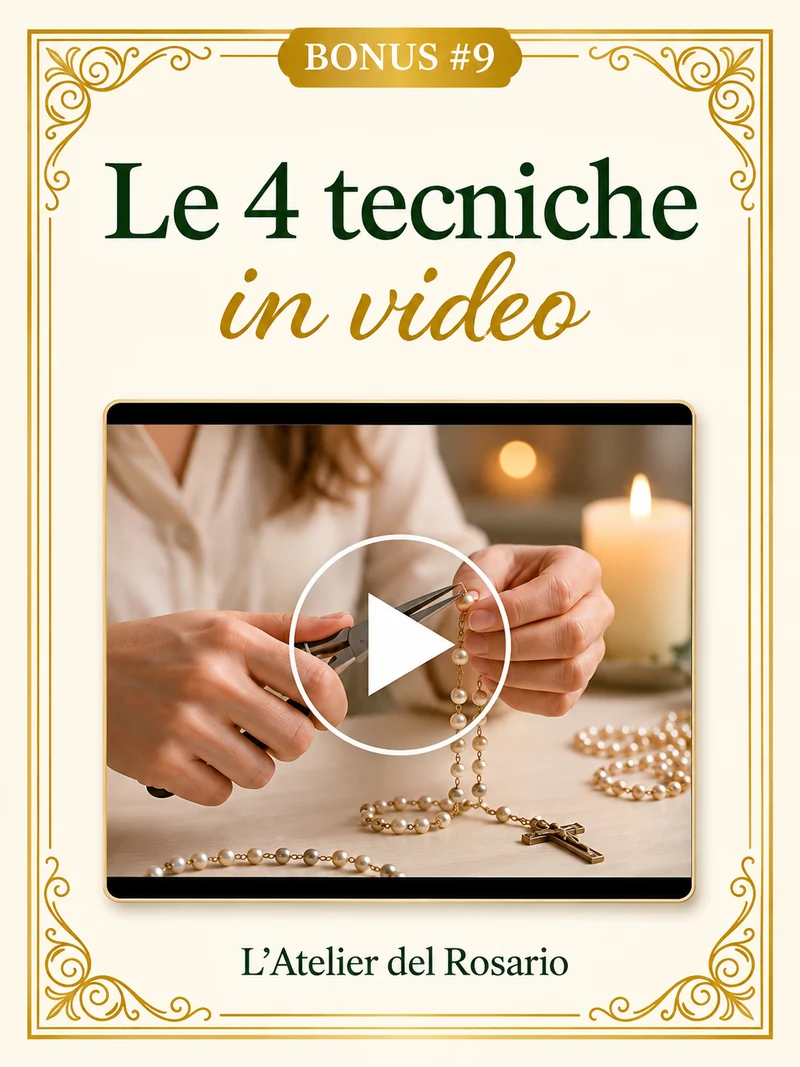
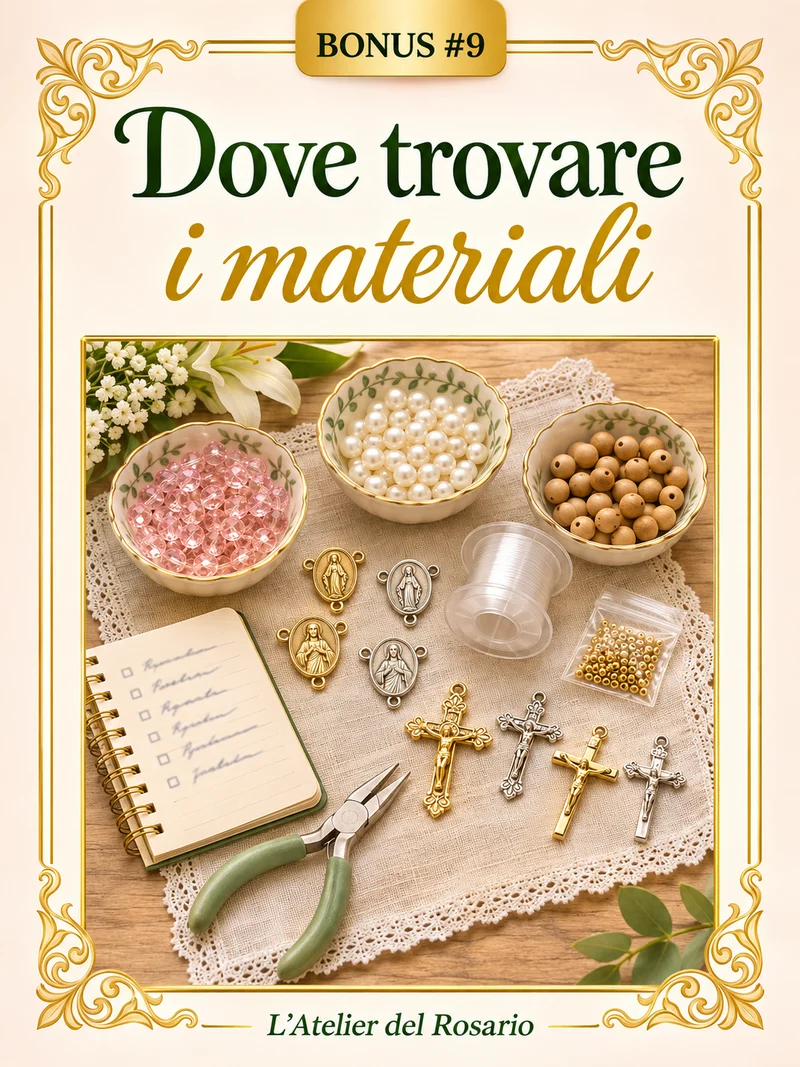
Bonus 9 vira Dove trovare i materiali

diff --git a/bonus.js b/bonus.js
@@ -13,7 +13,7 @@ var BONUS = (function () {
     { n: 6, tit: 'Catalogo per WhatsApp', sub: 'Crea il tuo catalogo da inviare' },
     { n: 7, tit: 'Piano di 7 giorni per vendere sui social', sub: 'Cosa pubblicare ogni giorno' },
     { n: 8, tit: 'Confezioni, kit ed etichette', sub: 'Etichette e biglietti da stampare' },
-    { n: 9, tit: 'Le 4 tecniche in video', sub: 'In arrivo', inArrivo: true },
+    { n: 9, tit: 'Dove trovare i materiali', sub: 'La lista della spesa e dove comprare' },
     { n: 10, tit: 'Foto che vendono', sub: 'Foto belle con il telefono' }
   ];
   function M() { return (window.BDATI && window.BDATI.modelli) || []; }
@@ -475,10 +475,116 @@ var BONUS = (function () {
     } };
   }
 
-  /* ═══ 9. Le 4 tecniche in video: in arrivo ═══ */
+  /* ═══ 9. Dove trovare i materiali (troca de 01/11: era "Le 4 tecniche in video") ═══
+     A lista sai das 100 fichas (bonus-dati.js): cada material cai num grupo pelo nome e conta quantos modelos usam. */
+  var GRUPPI = [
+    ['Crocifissi e croci', /^(Crocifisso|Croce)/],
+    ['Crociere e medaglie', /^(Crociera|Medaglia|Medaglietta|Sacra|Sacro)/],
+    ['Filo', /^(Nylon|Acciaio 0|Cavetto|Elastico|Cordoncino|Cuoio|Filo|Paracord|Seta|Sisal|Catena)/],
+    ['Schiaccini', /schiaccini/i],
+    ['Distanziatori', /^Distanziatori/],
+    ['Attrezzi', /^(Pinza|Pinzetta|Tronchesino|Forbic|Ago|Accendino|Vassoio|Ciotoline|Nastro di carta|Panno)/],
+    ['Colla', /^Colla/],
+    ['Ganci, anellini e chiusure', /^(Gancio|Moschettone|Anellin|Portachiavi|Portaprofumo|Piastrina|Infinito)/],
+    ['Lettere e targhette', /^(Lettere|Targhetta)/],
+    ['Confezione', /^(Scatolina|Sacchetto|Astuccio|Nastro di raso|Biglietto|Cartoncino)/]
+  ];
+  function gruppoDi(nome) {
+    for (var i = 0; i < GRUPPI.length; i++) if (GRUPPI[i][1].test(nome)) return GRUPPI[i][0];
+    return /\d+(,\d+)?\s*mm$|^(Grano|Perla|Grani)/.test(nome) ? 'Grani' : 'Altro';
+  }
+  function contaMateriali() {
+    var g = {};
+    M().forEach(function (m) {
+      var visti = {};
+      m.mats.forEach(function (x) {
+        var nome = x[0], gr = gruppoDi(nome);
+        g[gr] = g[gr] || { modelli: {}, voci: {} };
+        g[gr].modelli[m.n] = 1;
+        if (!visti[nome]) { visti[nome] = 1; g[gr].voci[nome] = (g[gr].voci[nome] || 0) + 1; }
+        if (gr === 'Filo' && /schiaccini/i.test(nome)) { g.Schiaccini = g.Schiaccini || { modelli: {}, voci: {} }; g.Schiaccini.modelli[m.n] = 1; }
+      });
+    });
+    return g;
+  }
+  function quanti(re) { return M().filter(function (m) { return m.mats.some(function (x) { return re.test(x[0]); }); }).length; }
   function b9() {
-    return { html: sez('In arrivo', '<div class="sem-venda">' + ico('relogio') + '<span><b>Le video-lezioni sono in preparazione.</b>Compariranno qui, nell’app, appena pronte. Intanto ogni modello del manuale ha il montaggio passo passo in 6 fasi, con le foto.</span></div>' +
-      '<p class="b-nota" style="margin-top:12px">Le tecniche del manuale: rosario su nylon con gli schiaccini, decina ad anello, bracciale su elastico e rosario con i nodi.</p>' + mods([78, 21, 1, 60])) };
+    var g = contaMateriali(), ordine = ['Crocifissi e croci', 'Crociere e medaglie', 'Attrezzi', 'Filo', 'Schiaccini', 'Grani', 'Colla', 'Distanziatori', 'Ganci, anellini e chiusure', 'Lettere e targhette', 'Confezione'];
+    // misure dei grani: quante volte compare ogni misura nelle schede
+    var misure = {};
+    M().forEach(function (m) { m.mats.forEach(function (x) { if (gruppoDi(x[0]) !== 'Grani') return; var r = /(\d+)\s*mm$/.exec(x[0]); if (r) misure[r[1]] = (misure[r[1]] || 0) + 1; }); });
+    var mis = Object.keys(misure).sort(function (a, b) { return misure[b] - misure[a]; }).slice(0, 5);
+    var KIT = [
+      ['Filo di nylon 0,50 mm', 'un rocchetto: 60 cm per il giro e 30 cm per il pendente', quanti(/^Nylon 0,5/)],
+      ['Schiaccini da 2 mm', 'dorati e argentati: 4 per rosario, 2 per decina', quanti(/schiaccini/i)],
+      ['Pinza a becchi piatti', 'per stringere gli schiaccini e chiudere gli anellini', quanti(/^Pinza/)],
+      ['Forbicina', 'per tagliare il filo a filo del grano', quanti(/^Forbic/)],
+      ['Grani da 6 e 8 mm', 'perle, cristallo, legno: 53 + 6 per un rosario, 10 + 1 per decina e bracciale', quanti(/(6|8) mm$/)],
+      ['Crociere', 'medaglie con 3 anellini (rosario) o 2 anellini (bracciale)', quanti(/^Crociera/)],
+      ['Crocifissi', 'da 2,5 a 5 cm, con l’anellino in alto', quanti(/^Crocifisso/)],
+      ['Elastico di silicone 0,7 mm', 'per i bracciali-rosario', quanti(/^Elastico/)],
+      ['Colla per bigiotteria', 'a punta sottile, una goccia sui nodi', quanti(/^Colla/)]
+    ];
+    var fatti = leggi('kit', []);
+    var html =
+      sez('La lista della spesa del manuale', '<div class="b-lista">' + ordine.filter(function (k) { return g[k]; }).map(function (k) {
+        var v = g[k], nm = Object.keys(v.modelli).length;
+        var voci = Object.keys(v.voci).sort(function (a, b) { return v.voci[b] - v.voci[a]; }).slice(0, 6);
+        return '<div class="b-item"><span class="e">' + nm + '</span><div><b>' + esc(k) + '</b><p>' + (nm === 100 ? 'in tutti i modelli' : 'in ' + nm + ' modelli su 100') + '</p>' +
+          '<div class="b-mods">' + voci.map(function (x) { return '<span class="b-mod"><span>' + v.voci[x] + '</span>' + esc(x) + '</span>'; }).join('') + '</div></div></div>';
+      }).join('') + '</div>' +
+      '<p class="b-nota">Misure dei grani più usate: ' + mis.map(function (x) { return '<b>' + x + ' mm</b> (' + misure[x] + ')'; }).join(' · ') + '. Il numero accanto a ogni materiale è quante schede lo usano.</p>',
+      'Abbiamo contato i materiali delle 100 schede del manuale: ecco cosa serve davvero e quanto spesso.') +
+      sez('Il kit base per iniziare', '<div id="c9-prog"></div><div class="b-check">' + KIT.map(function (k, i) {
+        return '<label class="b-spunta b-kit"><input type="checkbox" class="c9" data-i="' + i + '"' + (fatti.indexOf(i) >= 0 ? ' checked' : '') + '><span><b>' + esc(k[0]) + '</b><small>' + esc(k[1]) + ' · in ' + k[2] + ' modelli</small></span></label>';
+      }).join('') + '</div><div class="b-azioni">' + copia('Lista della spesa · L’Atelier del Rosario\n' + KIT.map(function (k) { return '- ' + k[0] + ' (' + k[1] + ')'; }).join('\n')).replace('>Copia<', '>Copia la lista<') + '</div>',
+        'Con questo fai la maggior parte dei modelli. Spunta quello che hai già: la lista resta salvata.') +
+      sez('Quanti grani comprare', '<label class="b-campo">Quanti rosari vuoi fare<input id="c9-n" inputmode="numeric" value="' + esc(leggi('kitN', '5')) + '"></label><div id="c9-ris"></div>',
+        'Un rosario completo ha 53 Ave Maria e 6 Padre Nostro; una decina o un bracciale 10 + 1.') +
+      sez('Dove comprare in Italia', '<div class="b-lista">' + [
+        ['🧵', 'Merceria e negozio di perline o bigiotteria', 'Grani, filo di nylon, schiaccini, elastico e colla. Puoi vedere i colori e provare i fori sul filo. Chiedi se fanno un prezzo a chi compra in quantità.'],
+        ['⛪', 'Negozio di articoli religiosi', 'Crociere, crocifissi e medaglie dei santi. Chiedi se vendono i componenti sfusi, non solo i rosari finiti.'],
+        ['🔧', 'Ferramenta o negozio di bricolage', 'Pinza a becchi piatti e tronchesino. Meglio la pinza piccola con i becchi lisci, senza denti: non graffia il metallo.'],
+        ['🛒', 'Marketplace online', 'Per le quantità e i colori che non trovi in zona. Controlla la misura in mm, il materiale e le recensioni con le foto; prima della scorta ordina poco, per prova.'],
+        ['📦', 'Ingrosso di bigiotteria', 'Per le bomboniere e per produrre tanti pezzi. Molti grossisti chiedono un ordine minimo e alcuni vendono solo a chi ha la partita IVA: chiedi prima.']
+      ].map(function (s) { return '<div class="b-item"><span class="e">' + s[0] + '</span><div><b>' + esc(s[1]) + '</b><p>' + esc(s[2]) + '</p></div></div>'; }).join('') + '</div>') +
+      sez('Cosa chiedere in negozio', '<div class="b-tab b-tab2"><div class="b-tr b-th"><span>Ti serve</span><span>Chiedi così</span></div>' + [
+        ['Il filo del rosario', '“filo di nylon da 0,50 mm”'],
+        ['I tubetti da stringere', '“schiaccini da 2 mm” (online anche “crimp 2 mm”)'],
+        ['La pinza', '“pinza a becchi piatti per bigiotteria”'],
+        ['La medaglia centrale', '“crociera per rosario a 3 anellini”'],
+        ['La croce', '“crocifisso per rosario con anellino”, da 2,5 a 5 cm'],
+        ['I grani di vetro sfaccettati', '“mezzi cristalli da 6 mm”'],
+        ['Le perle', '“perle di vetro cerate da 8 mm”'],
+        ['L’elastico', '“filo elastico di silicone trasparente 0,7 mm”'],
+        ['La colla', '“colla per bigiotteria a punta sottile”'],
+        ['Gli anellini', '“anellini apribili da 5 mm”'],
+        ['I separatori', '“distanziatori in metallo da 4 mm”']
+      ].map(function (r) { return '<div class="b-tr"><span>' + esc(r[0]) + '</span><b>' + esc(r[1]) + '</b></div>'; }).join('') + '</div>') +
+      sez('Risparmiare e controllare la qualità', '<div class="b-lista">' + [
+        ['✨', 'Il metallo che non annerisce', 'Per crociere, crocifissi e schiaccini chiedi finiture che non si scuriscono, come l’acciaio inox o le placcature di qualità, e anallergiche (senza nichel) per i bracciali.'],
+        ['🕳', 'Il foro dei grani', 'Nei rosari il nylon torna indietro dentro gli ultimi grani: il foro deve far passare il filo due volte. Porta un pezzo di nylon in negozio e prova.'],
+        ['🔍', 'Grani tutti uguali', 'Stessa misura e stesso colore, senza bolle né scheggiature. Un cristallo con lo spigolo tagliente può rovinare il filo.'],
+        ['📏', 'La misura giusta degli schiaccini', 'Per il nylon 0,50 usa schiaccini da 2 mm, come nelle schede: con uno più grande il filo scivola.'],
+        ['💶', 'Il prezzo per pezzo', 'Dividi il prezzo della bustina per il numero di grani e confronta così, non il prezzo della bustina.'],
+        ['🧪', 'Prima la prova, poi la scorta', 'Compra poco, fai un rosario completo e solo dopo compra in quantità.']
+      ].map(function (s) { return '<div class="b-item"><span class="e">' + s[0] + '</span><div><b>' + esc(s[1]) + '</b><p>' + esc(s[2]) + '</p></div></div>'; }).join('') + '</div>');
+    function prog() { var n = fatti.length; $('c9-prog').innerHTML = '<div class="b-prog"><div class="mini-prog"><i style="width:' + Math.round(100 * n / KIT.length) + '%"></i></div><span>' + n + ' di ' + KIT.length + ' già pronti</span></div>'; }
+    function grani() {
+      var N = Math.max(1, Math.round(num($('c9-n').value)) || 1); salva('kitN', String(N));
+      $('c9-ris').innerHTML = '<div class="b-righe"><span>Ave Maria (53 × ' + N + ')</span><b>' + 53 * N + '</b><span>Padre Nostro (6 × ' + N + ')</span><b>' + 6 * N + '</b><span>Con il 10% di scorta</span><b>' + Math.ceil(53 * N * 1.1) + ' + ' + Math.ceil(6 * N * 1.1) + '</b>' +
+        '<span>Schiaccini da 2 mm (4 a rosario)</span><b>' + 4 * N + '</b><span>Nylon 0,50 (90 cm a rosario)</span><b>' + (Math.round(0.9 * N * 10) / 10).toLocaleString('it-IT') + ' m</b><span>Crociere e crocifissi</span><b>' + N + ' + ' + N + '</b></div>' +
+        '<p class="b-nota">Misure della maggior parte dei rosari del manuale (60 + 30 cm di nylon). Per il modello preciso usa la lista del bonus 4.</p>';
+    }
+    return { html: html, init: function () {
+      prog(); grani();
+      $('bonus-corpo').addEventListener('change', function (e) {
+        if (!e.target.matches('.c9')) return;
+        var i = +e.target.getAttribute('data-i'); fatti = fatti.filter(function (x) { return x !== i; }); if (e.target.checked) fatti.push(i);
+        salva('kit', fatti); prog();
+      });
+      $('bonus-corpo').addEventListener('input', function (e) { if (e.target.id === 'c9-n') grani(); });
+    } };
   }
 
   /* ═══ 10. Foto che vendono ═══ */

diff --git a/index.html b/index.html
@@ -862,6 +862,12 @@
   .b-spunta input{width:22px;height:22px;accent-color:var(--roxo);flex:none}
   .b-giorno7 > p{font-size:14px;color:var(--texto-2);line-height:1.5}
   .b-check{display:flex;flex-direction:column;gap:4px}
+  .b-tab2 .b-tr{grid-template-columns:1fr 1.5fr}
+  .b-kit{align-items:flex-start;background:var(--fundo);border-radius:12px;padding:10px 12px;margin-bottom:6px}
+  .b-kit input{margin-top:2px}
+  .b-kit b{display:block;font-size:14.5px}
+  .b-kit small{display:block;font-size:12.5px;color:var(--texto-3);line-height:1.4}
+  .b-item .e{font-weight:800;color:var(--roxo-esc)}
 </style>
 </head>
 <body>

diff --git a/README.md b/README.md
@@ -75,16 +75,14 @@ localStorage por e-mail (`ar:b:<email>:...`). O montador também confere o portu
 | 6 | Catalogo per WhatsApp | exemplo pronto (ChatGPT) + editor: 6 modelos ou fotos dela, nome, preço → JPG 1080x1350 para baixar ou compartilhar |
 | 7 | Piano di 7 giorni | 7 dias com checklist salva e o texto de cada post para copiar |
 | 8 | Confezioni, kit ed etichette | folha de ideias (ChatGPT) + ideias tiradas das páginas + 4 kits + folha A4 de 12 etiquetas (ChatGPT) + editor de etiquetas A4 + biglietti A4 com a oração exata (Ave Maria, Padre Nostro, Gloria, Angelo di Dio) e dedica |
-| 9 | Le 4 tecniche in video | **In arrivo**: o B-roll de Downloads/Rosarios/Videos não mostra as técnicas do manual |
+| 9 | Dove trovare i materiali | (troca de 01/11, era "Le 4 tecniche in video"; os vídeos entram depois, fora do app) lista de compras contada nas 100 fichas por grupo de material, kit base com checklist salva e botão Copia, quantos grãos para N terços, onde comprar na Itália por tipo de loja (sem marcas), como pedir cada item na loja, economia e qualidade |
 | 10 | Foto che vendono | 7 regras + checklist antes de publicar |
 
 Imagens do ChatGPT (01/11, conta logada no Chrome 9222, 13 imagens em ~5 min com 3 abas): prompts e originais em
 `entregaveis/tercos-artesanais/bonus/` (`prompts.cjs`, `fila.cjs`, `gpt/`): 10 capas 3:4 em italiano, `etichette`,
 `confezioni` e `catalogo` (exemplo). No app: `assets/bonus/` e `assets/capas/b01…b10-480/800.webp`.
 
-Para o bônus 9 sair do "In arrivo" faltam clipes (sem rosto, sem marca d'água, sem texto) de: 1) schiaccino fechado
-com a pinza a becchi piatti no nylon; 2) decina ad anello fechando na crociera; 3) bracciale: elástico esticado, nó
-cirúrgico, gota de cola e nó escondido no grano; 4) nós entre os grani (cordão/paracord).
+Bônus 9: a lista é calculada no próprio app (bonus.js, GRUPPI) a partir de bonus-dati.js; capa nova gerada em 01/11 (a antiga, de vídeo, ficou em gpt/capa-09-video-antiga.png).
 
 ## Suporte e push
 
